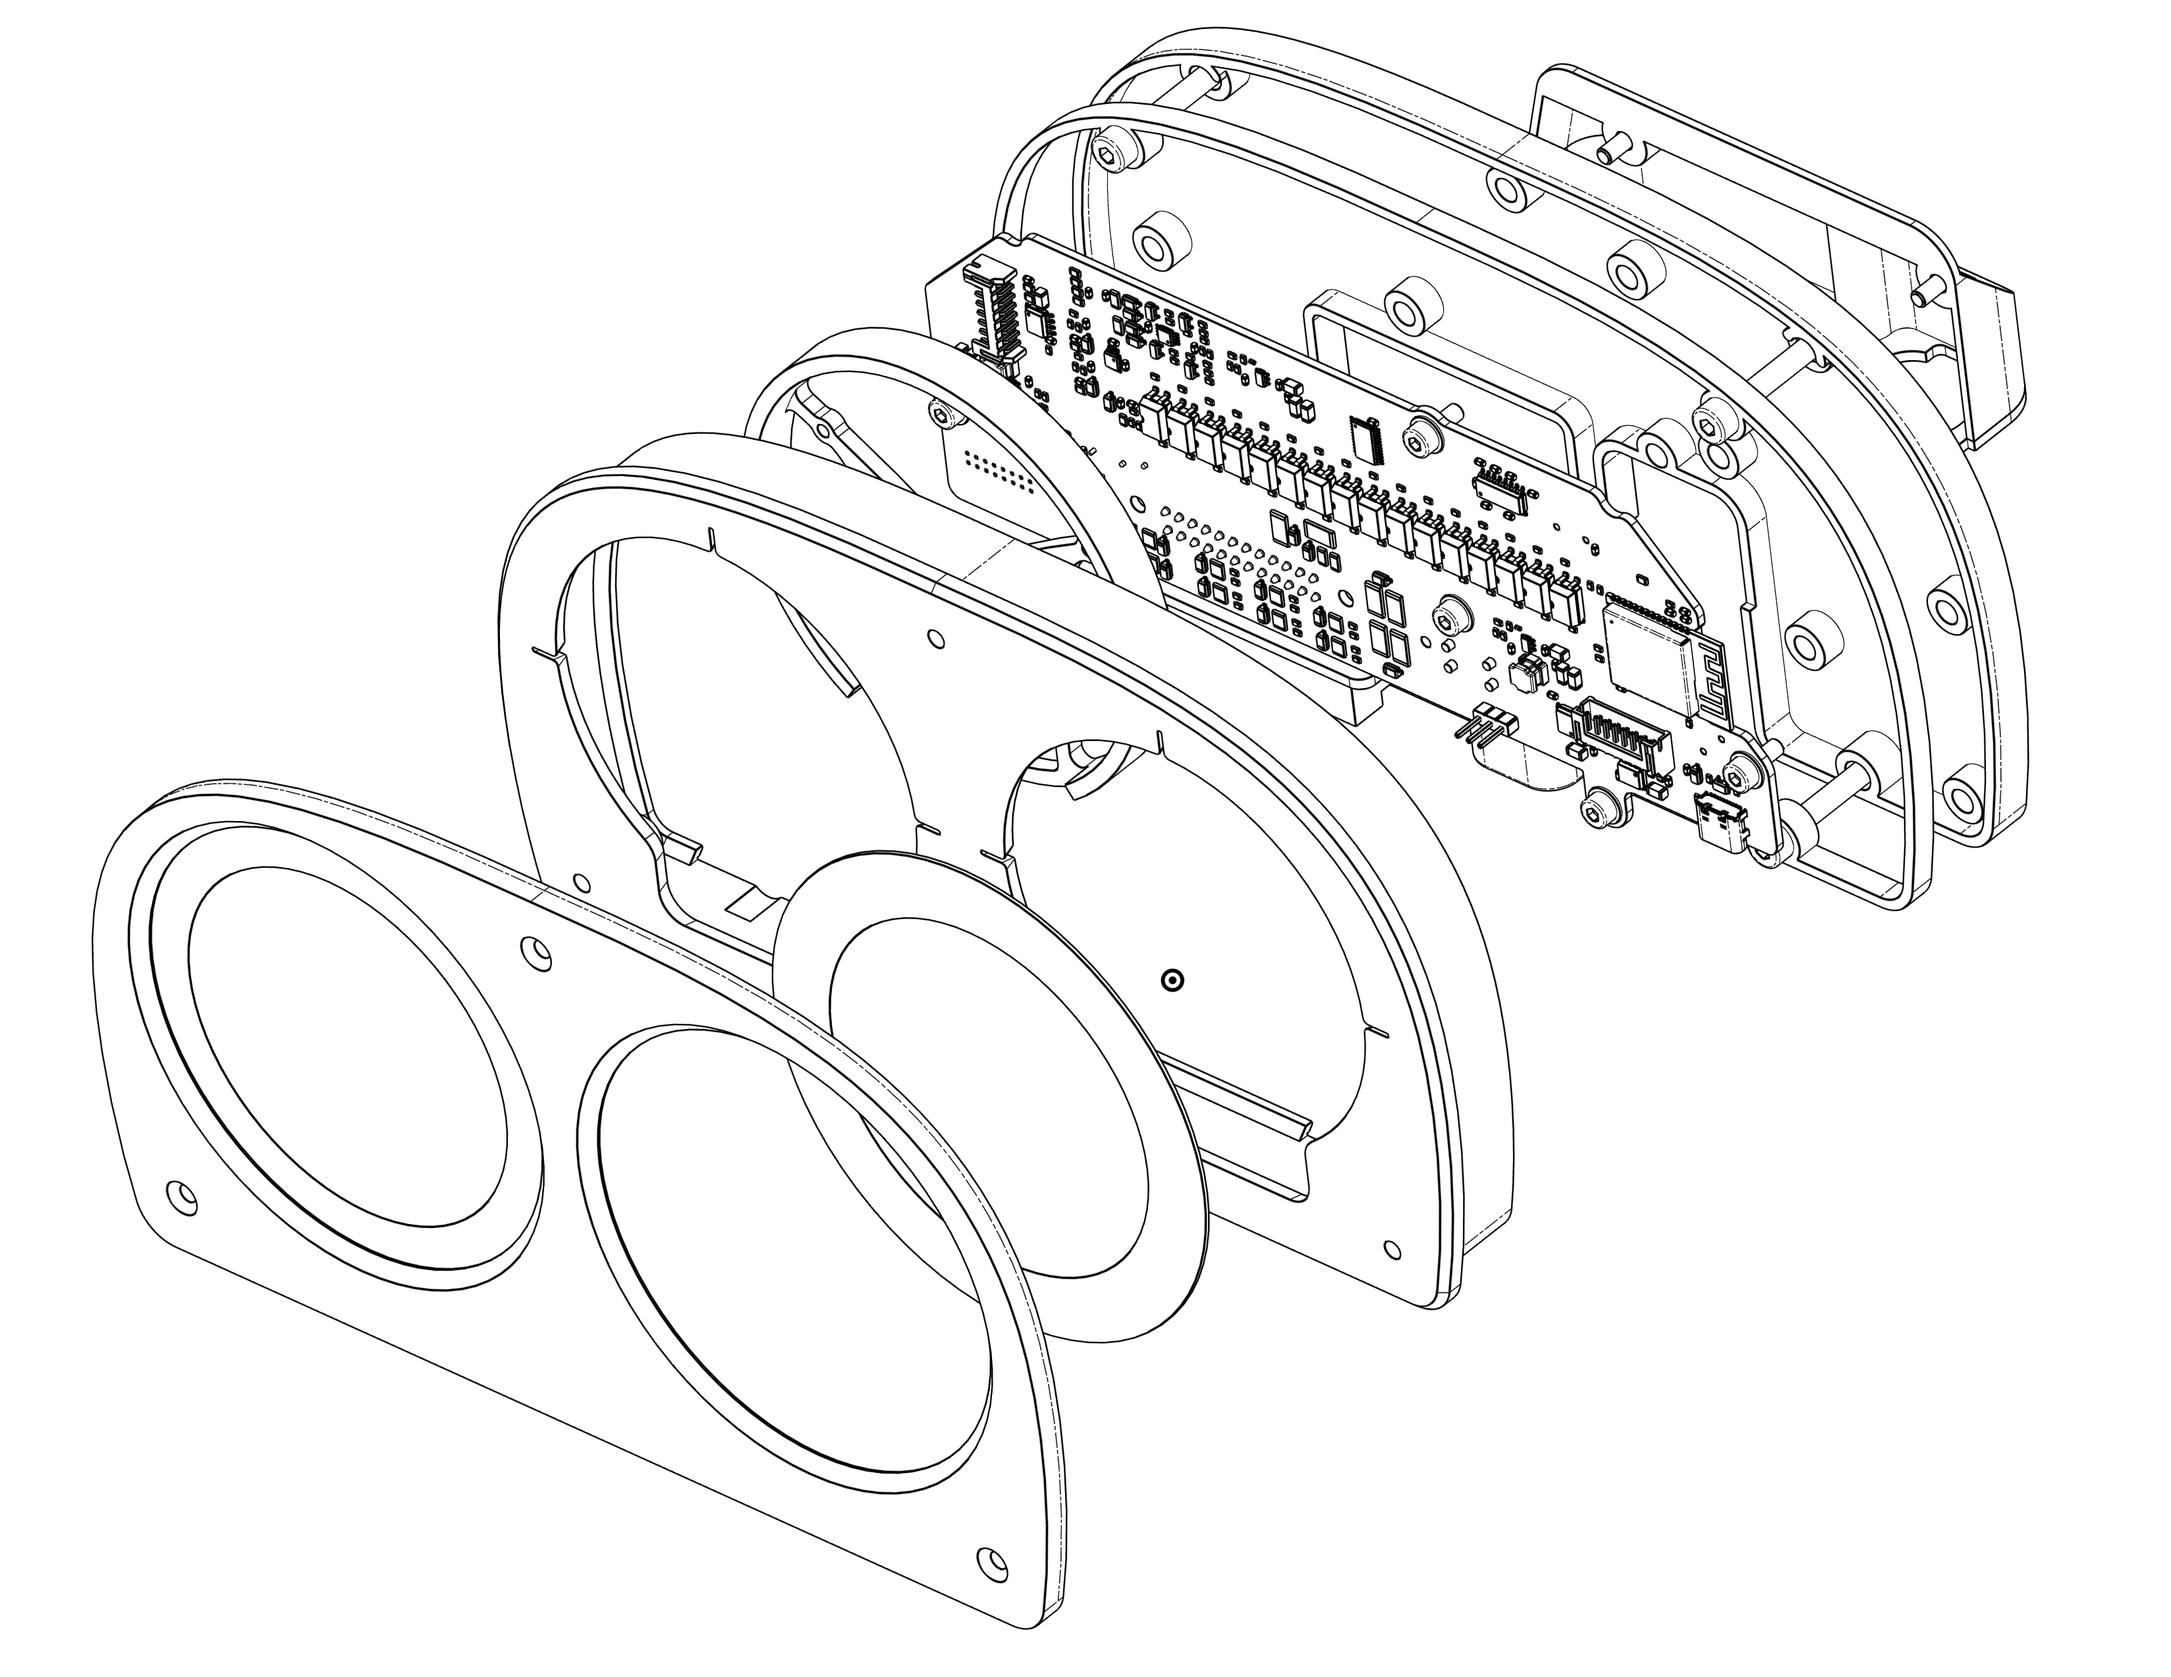
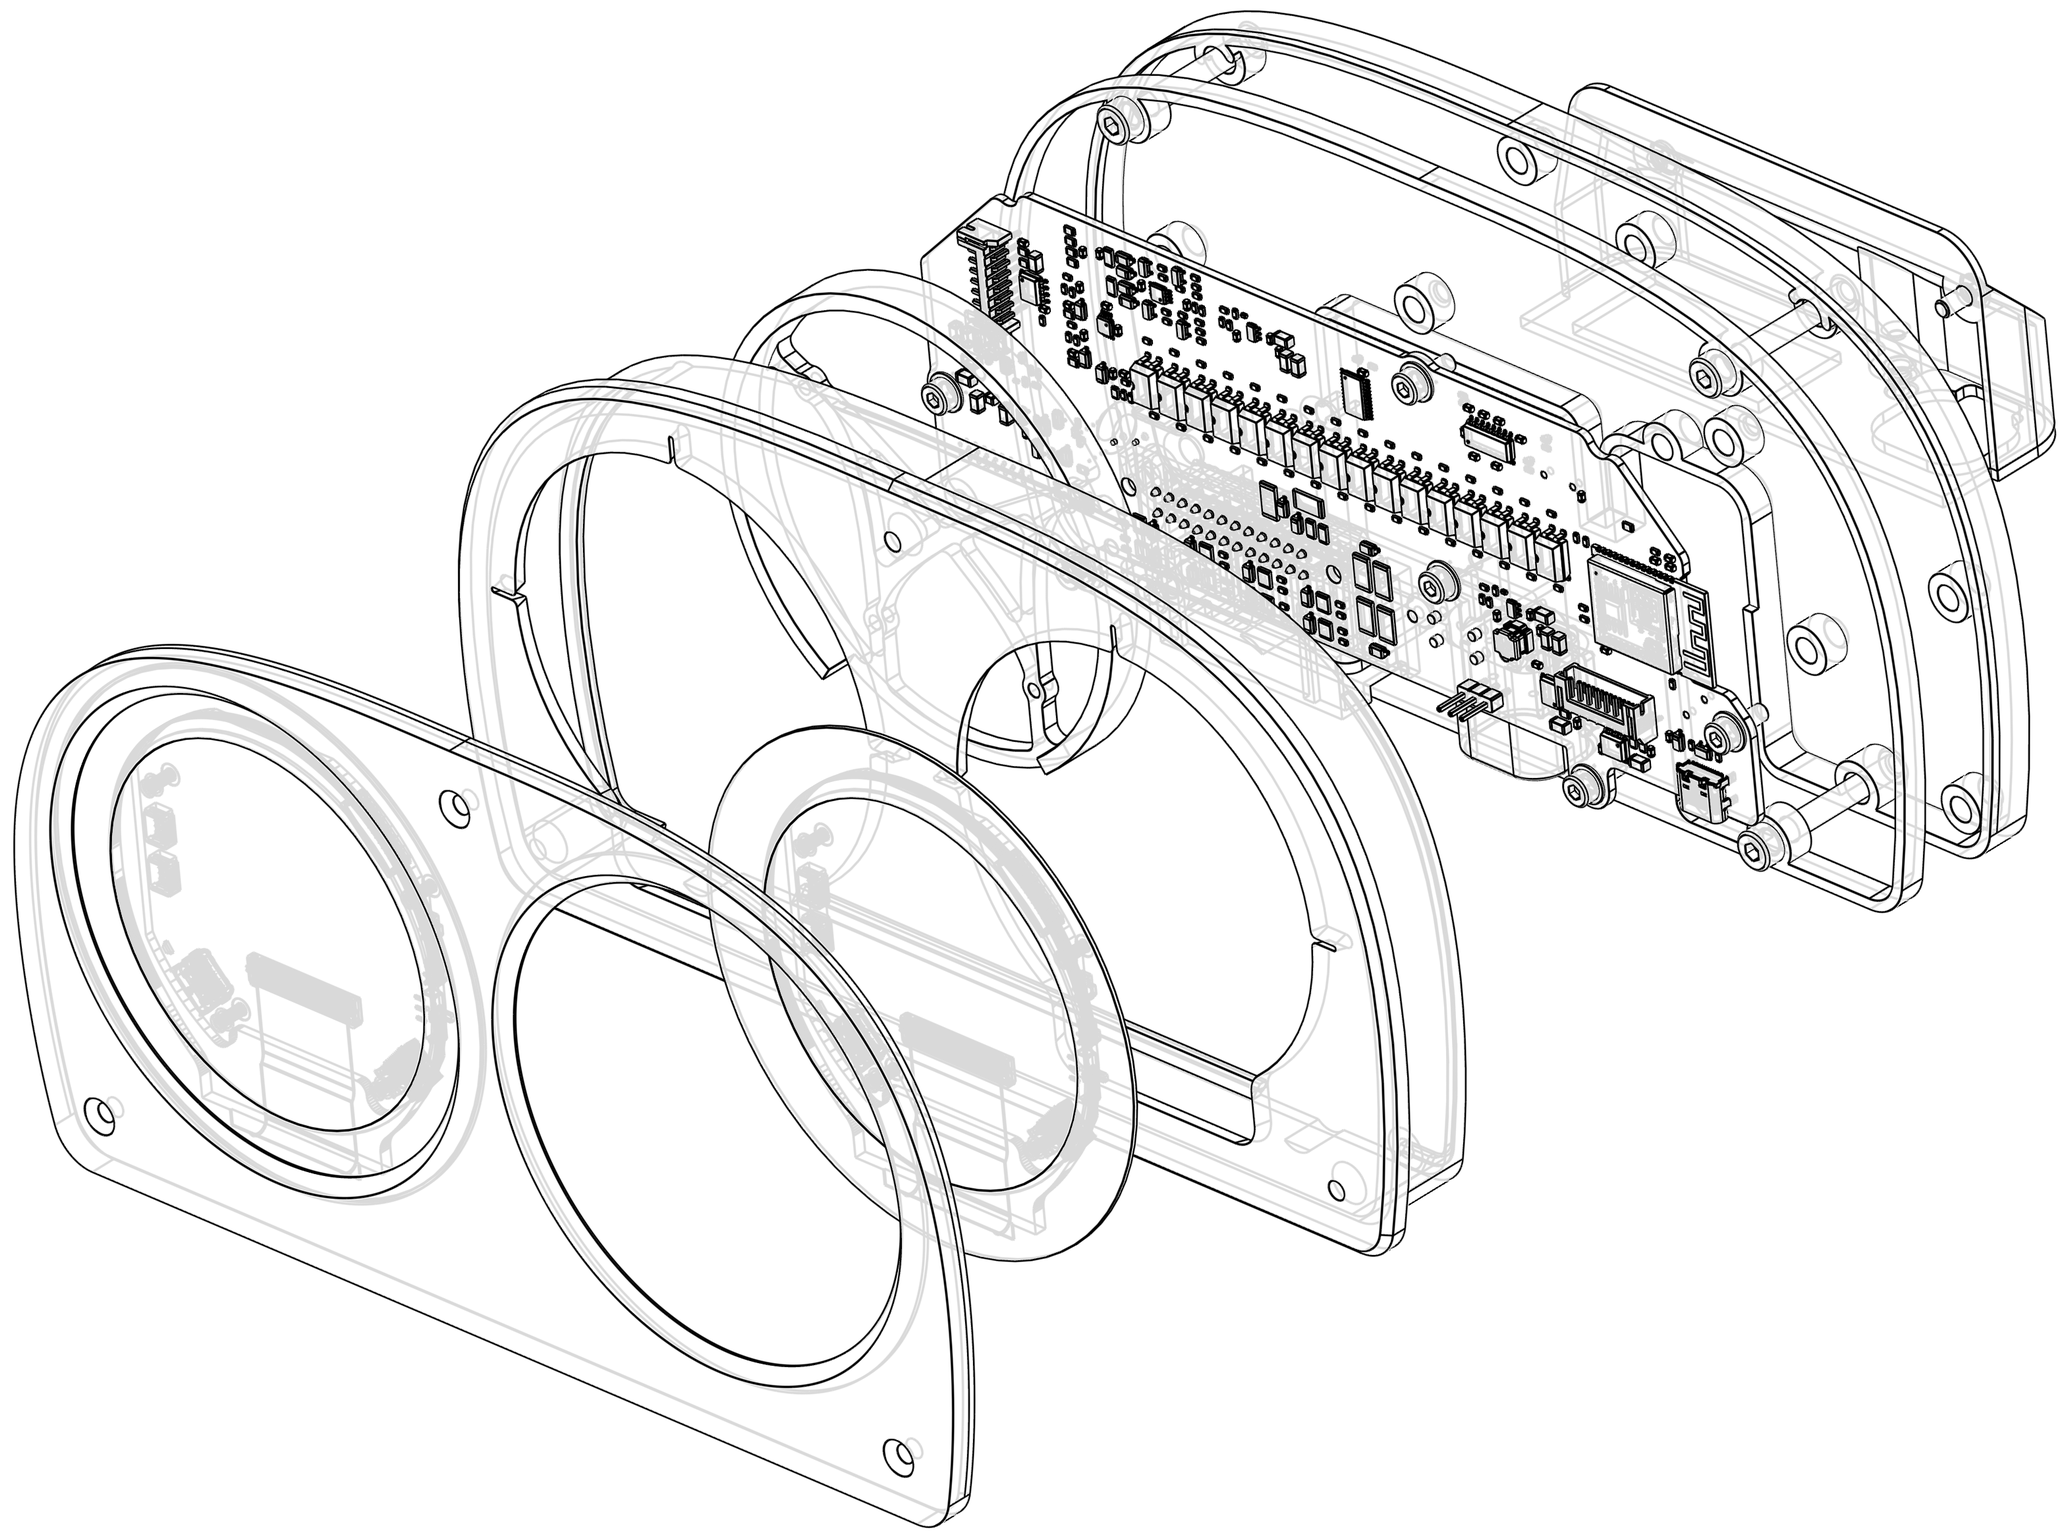
Image updates without origin dots

Changed region(s): [[0.0, 0.0, 1.0, 1.0], [0.25, 0.8652, 0.2812, 0.8961], [0.1875, 0.8343, 0.2188, 0.8652]]

diff --git a/readme.md b/readme.md
@@ -1,4 +1,4 @@
-![A cryptic front view of the proto assembly](img/Control%20assy%20(5).png)
+![A cryptic front view of the proto assembly](img/Control%20assy.png)
 
 # VX Dash <a href="https://www.buymeacoffee.com/magicmartin" target="_blank"><img src="https://cdn.buymeacoffee.com/buttons/default-orange.png" alt="Buy Me A Coffee" height="41" width="174"></a>
 
@@ -7,7 +7,7 @@ VX-Dash, also known as the "Binocle", is an effort to provide a restomodded inst
 
 This hardware is published under a [strongly reciprocal CERN license](LICENSE.md), meaning that while it can be reused for commercial projects, sources have to remain open, modifications have to be explicitely documented, and no warranty or liability is provided.
 
-![An exploded view of the proto assembly](img/Control%20assy.png)
+![An exploded view of the proto assembly](img/Control%20assy%20(2).png)
 
 The objectives are to make this as economical as possible, and future-proofed, in order to avoid rare components or unreasonable price. To meet such objectives, modularity is key, as well as using popular development platforms, such as the excellent ESP32-S3.
 
